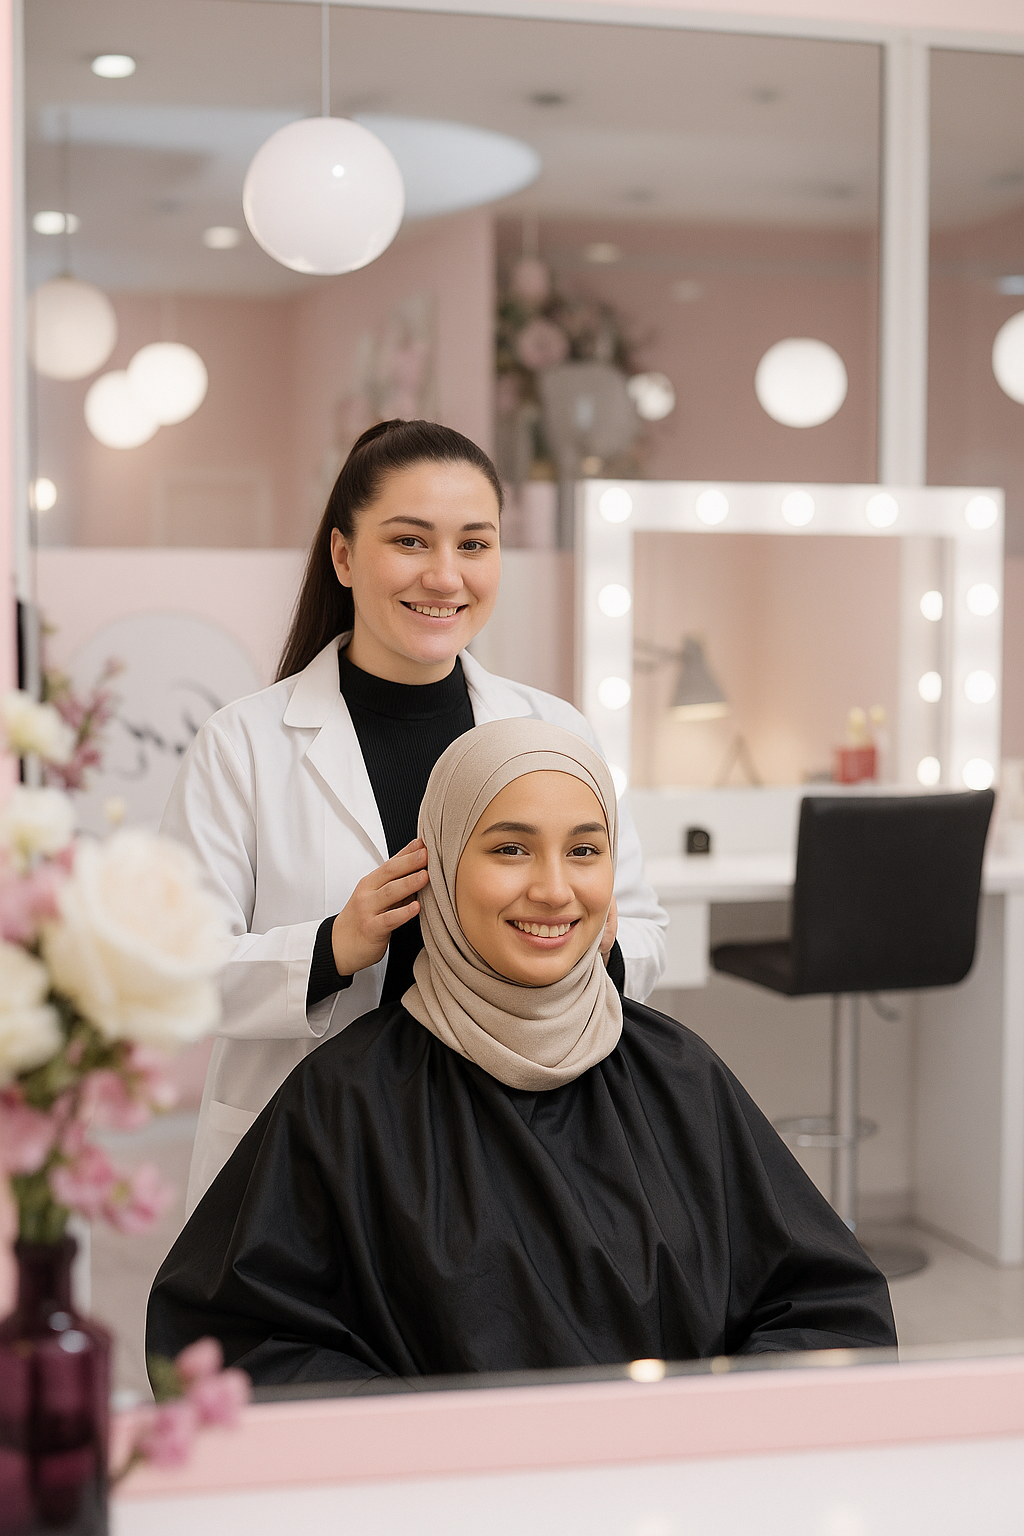
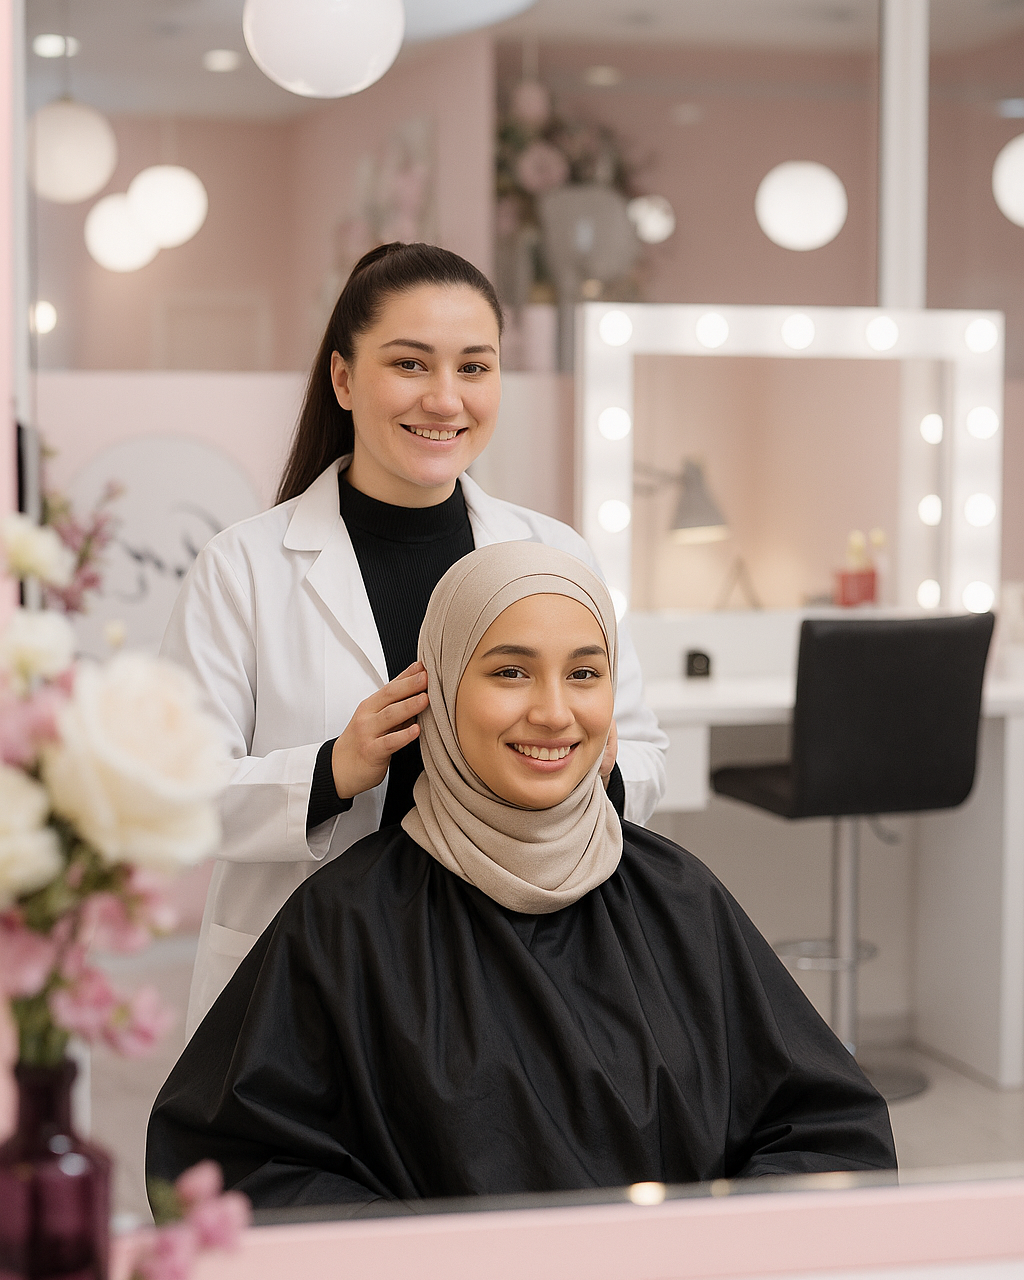
update

diff --git a/index.html b/index.html
@@ -273,7 +273,7 @@
               src="./about-us2.png"
               alt="Tentang Kami"
               class="img-fluid rounded"
-              style="position: absolute; top: 870px; left: 150px"
+              style="position: absolute; top: 870px; left: 150px; height: 577px"
               width="30%"
             />
           </div>
@@ -642,7 +642,9 @@
             </p>
             <p>
               &#127970; Bukit Cimanggu City Blok V6 No. 33, Mekar Wangi, Tanah
-              Sareal, Kota Bogor (<a href="https://g.co/kgs/dGErCKb">Google Maps</a>)
+              Sareal, Kota Bogor (<a href="https://g.co/kgs/dGErCKb"
+                >Google Maps</a
+              >)
             </p>
           </div>
         </div>
